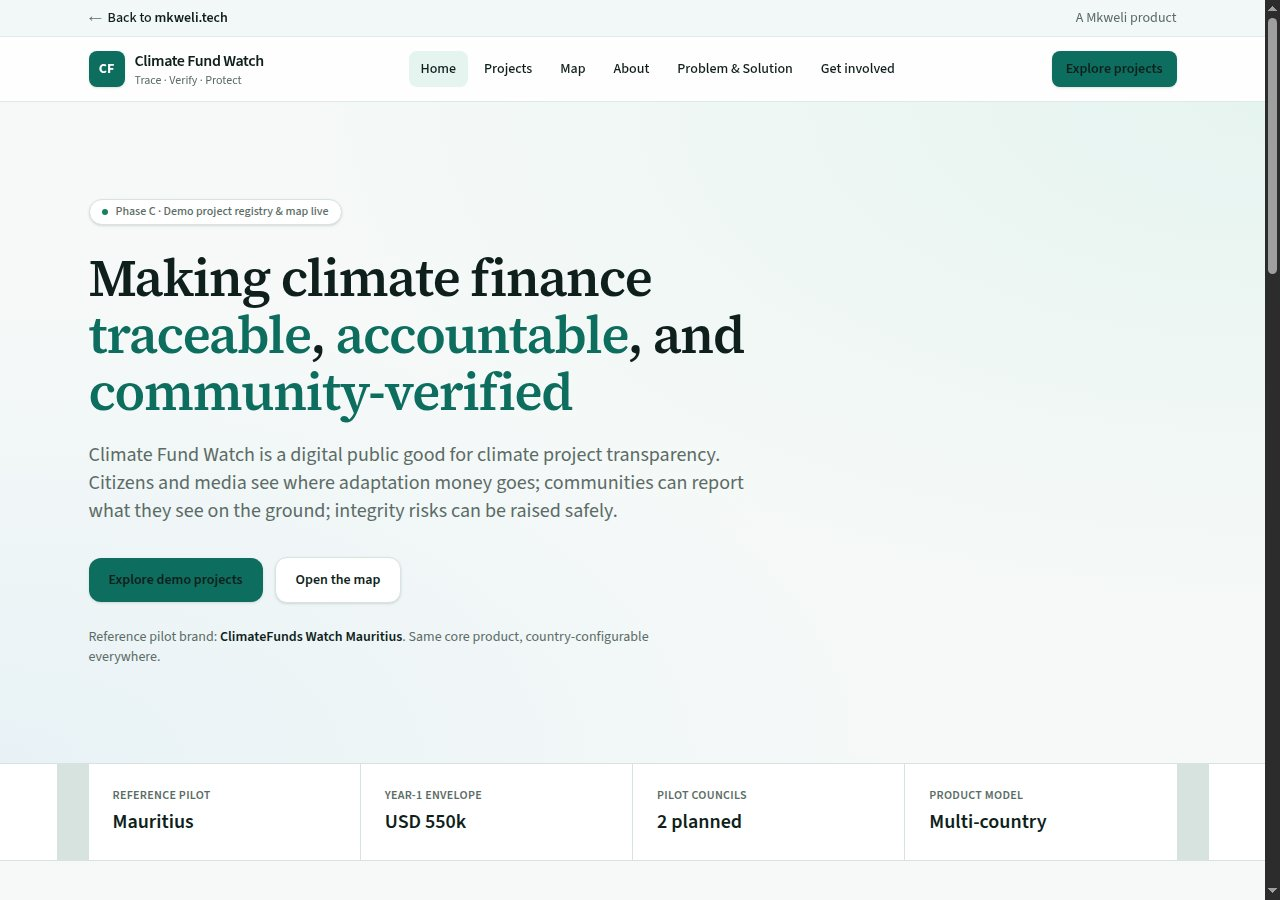
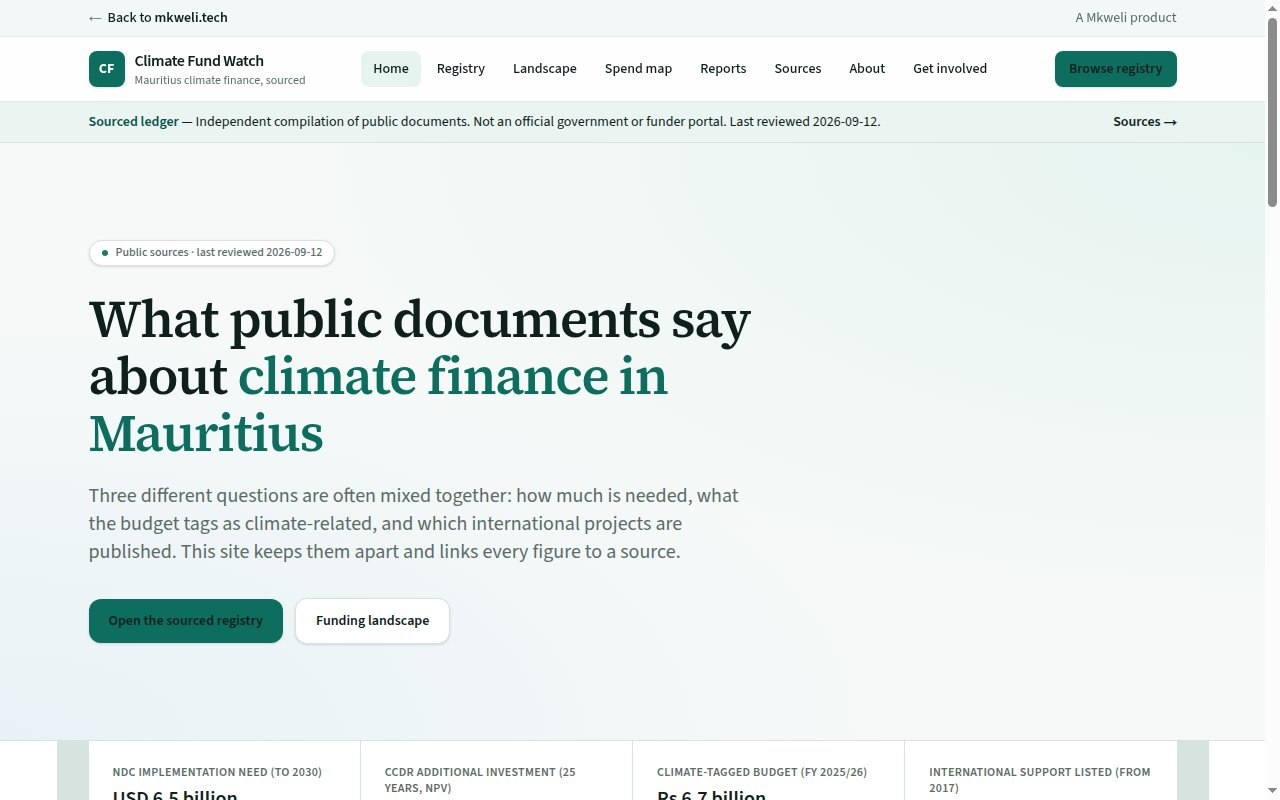
Describe Climate Fund Watch as a public ledger, not a demo
The Mauritius site now publishes sourced figures. Drop Demo live /
sample data / Live demo on the hub card and refresh the preview crop.

diff --git a/index.html b/index.html
@@ -124,7 +124,7 @@
         <header class="section-head">
           <span class="section-tag">Products</span>
           <h2>Tools you can open, pilot, and put in the field.</h2>
-          <p>Each product has its own site. Status is stated as live, pilot-ready, or demo.</p>
+          <p>Each product has its own site. Status is labelled on the card (live, public ledger, or pilot-ready).</p>
         </header>
 
         <div class="product-grid">
@@ -175,14 +175,14 @@
             <div class="product-body">
               <div class="product-top">
                 <img src="assets/mkweli-mark.png" alt="" width="28" height="28" class="product-logo" />
-                <span class="badge badge-demo">Demo live</span>
+                <span class="badge badge-live">Public ledger</span>
               </div>
               <h3>Climate Fund Watch</h3>
-              <p class="product-desc">Climate finance transparency: public narrative site, project registry and map (Mauritius sample data), open CSV/JSON, roadmap toward integrity-safe reporting.</p>
-              <p class="product-tags">Next.js · open data · map</p>
+              <p class="product-desc">Independent ledger of public climate-finance figures for Mauritius: need vs tagged budget vs donor projects, named works sites, citations, and published donor reports. Not a government portal.</p>
+              <p class="product-tags">Next.js · sourced data · map</p>
               <div class="link-row">
-                <a class="text-link" href="https://cfw.mkweli.tech/" rel="noopener noreferrer">Live demo →</a>
-                <a class="text-link muted" href="https://cfw.mkweli.tech/projects" rel="noopener noreferrer">Registry</a>
+                <a class="text-link" href="https://cfw.mkweli.tech/" rel="noopener noreferrer">Open cfw.mkweli.tech →</a>
+                <a class="text-link muted" href="https://cfw.mkweli.tech/sources" rel="noopener noreferrer">Sources</a>
               </div>
             </div>
           </article>

diff --git a/DNS-CUTOVER.md b/DNS-CUTOVER.md
@@ -11,7 +11,7 @@ Target map:
 | `api.mkweli.tech` | LakazAgri production API | Hetzner VPS `95.217.154.172` (nginx → Node) |
 | `grid.mkweli.tech` | Mkweli Grid | `ceb-website` |
 | `ceb.mkweli.tech` | Redirect to grid (legacy) | Hostinger URL redirect → `grid.mkweli.tech` |
-| `cfw.mkweli.tech` | Climate Fund Watch (Phase C demo) | GitHub `gilbertbouic/cfw` · Vercel project `climate-fund-watch` |
+| `cfw.mkweli.tech` | Climate Fund Watch (sourced public ledger) | GitHub `gilbertbouic/cfw` · Vercel project `climate-fund-watch` |
 | `climate-fund-watch.vercel.app` | CFW fallback URL | Same Vercel project |
 
 ### Climate Fund Watch DNS (Hostinger)
